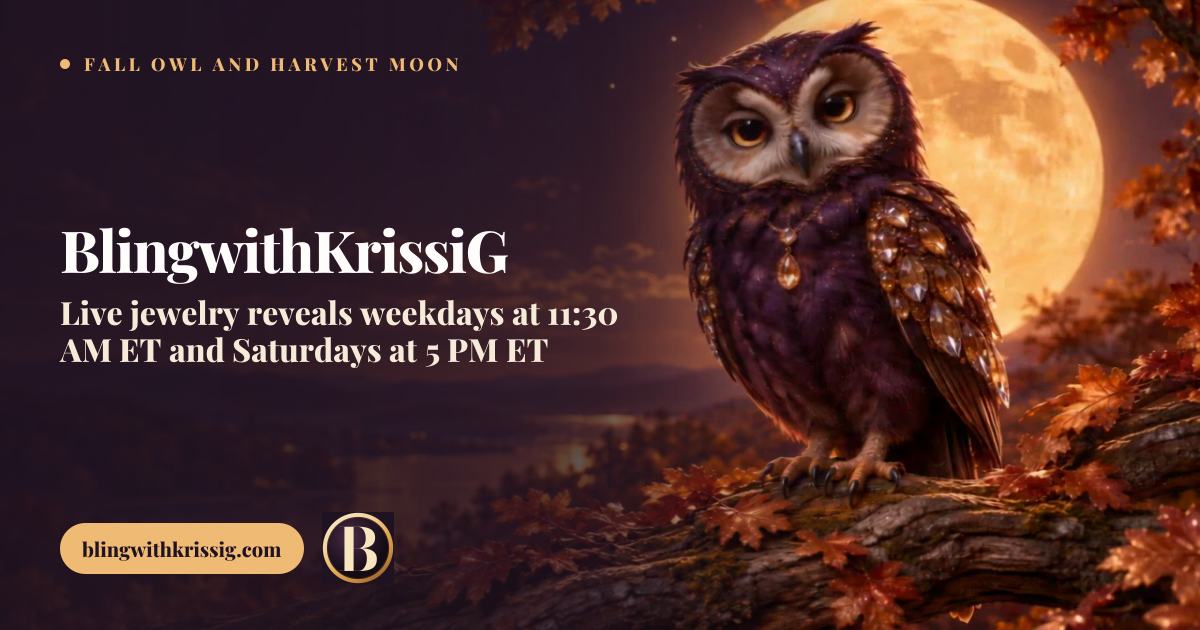
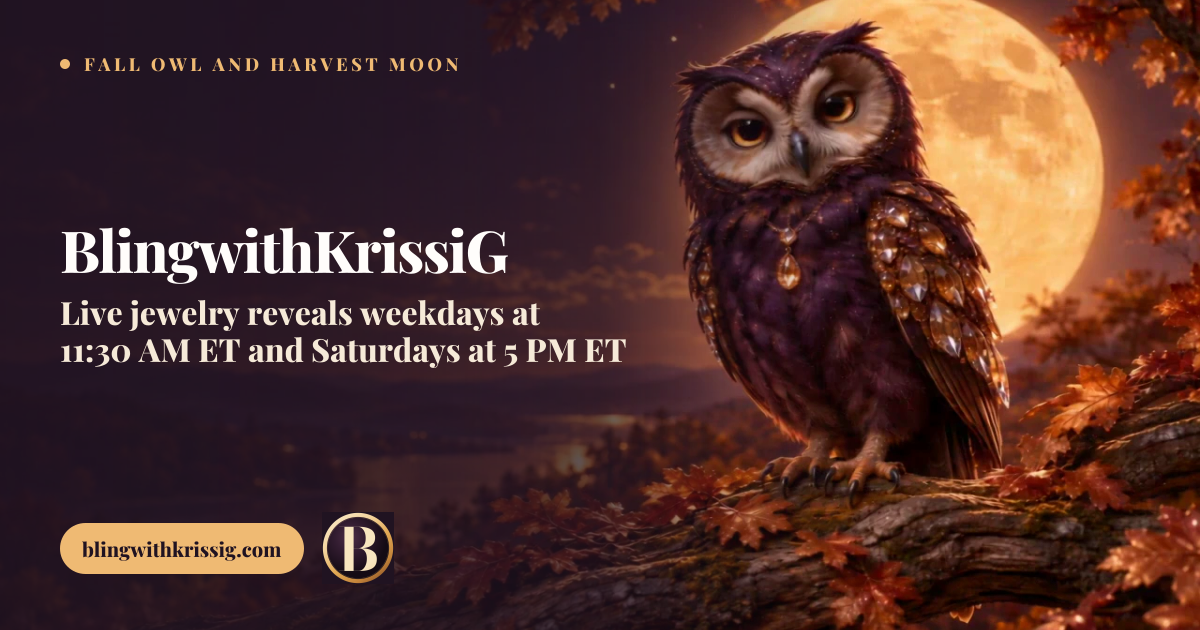
fix(customer-site): keep share-card clock times on one line
Non-breaking spaces hold the hour, AM/PM, and zone together in any tagline, so Kristin's schedule wraps before 11:30 AM ET instead of between the time and the meridian.

Changed region(s): [[0.0308, 0.4825, 0.5242, 0.6032]]

diff --git a/tests/customer-site-brand-assets.test.ts b/tests/customer-site-brand-assets.test.ts
@@ -3,6 +3,7 @@ import { resolve } from 'node:path'
 import { describe, expect, it } from 'vitest'
 
 import {
+  bindShareCardClockTimes,
   getCustomerSiteAppleMarkAssetPath,
   getCustomerSiteExplicitShareLines,
   getCustomerSiteMark,
@@ -79,12 +80,13 @@ describe('customer-site brand assets', () => {
     const generatedSubtitle =
       "I'm Kristin - join me for live reveals, favorite finds, and customer-first sparkle."
     const tagline = 'Live jewelry reveals weekdays at 11:30 AM ET and Saturdays at 5 PM ET'
+    const wrappedTagline = 'Live jewelry reveals weekdays at 11:30\u00a0AM\u00a0ET and Saturdays at 5\u00a0PM\u00a0ET'
 
     expect(getCustomerSiteExplicitShareLines({
       explicitHeroTitle: '',
       heroSubtitle: generatedSubtitle,
       tagline,
-    })).toEqual({ headline: tagline, support: '' })
+    })).toEqual({ headline: wrappedTagline, support: '' })
 
     expect(getCustomerSiteExplicitShareLines({
       explicitHeroTitle: 'Harvest light, real sparkle.',
@@ -92,7 +94,7 @@ describe('customer-site brand assets', () => {
       tagline,
     })).toEqual({
       headline: 'Harvest light, real sparkle.',
-      support: tagline,
+      support: wrappedTagline,
     })
 
     expect(getCustomerSiteExplicitShareLines({
@@ -109,6 +111,17 @@ describe('customer-site brand assets', () => {
       heroSubtitle: '',
       tagline: '',
     })).toEqual({ headline: 'Live jewelry reveals', support: '' })
+  })
+
+  it('keeps clock times together in any share tagline', () => {
+    expect(bindShareCardClockTimes(
+      'Live jewelry reveals weekdays at 11:30 AM ET and Saturdays at 5 PM ET',
+    )).toBe('Live jewelry reveals weekdays at 11:30\u00a0AM\u00a0ET and Saturdays at 5\u00a0PM\u00a0ET')
+    expect(bindShareCardClockTimes('Doors at 7 PM CT')).toBe('Doors at 7\u00a0PM\u00a0CT')
+    expect(bindShareCardClockTimes('Starts at 8:00 p.m.')).toBe('Starts at 8:00\u00a0p.m.')
+    expect(bindShareCardClockTimes('Follow along for new reveals.')).toBe(
+      'Follow along for new reveals.',
+    )
   })
 
   it('keeps the share card tied to the selected customer-site skin', () => {

diff --git a/lib/amethyst/customer-site-brand-assets.ts b/lib/amethyst/customer-site-brand-assets.ts
@@ -120,6 +120,18 @@ export function getCustomerSiteAppleMarkAssetPath(customDomain: string) {
   return KRISTIN_CUSTOM_DOMAINS.has(customDomain) ? KRISTIN_MARK_PATH : null
 }
 
+/**
+ * Keeps a clock time on one line. "11:30 AM ET" must not wrap between the
+ * number and AM/PM or the zone. Ordinary spaces outside the time still wrap.
+ */
+export function bindShareCardClockTimes(value: string) {
+  return value.replace(
+    /\b(\d{1,2}(?::\d{2})?)\s*(a\.?m\.?|p\.?m\.?)(?:\s*(et|ct|mt|pt|est|cst|mst|pst|edt|cdt|mdt|pdt))?\b/gi,
+    (_match, hour: string, meridiem: string, zone?: string) =>
+      zone ? `${hour}\u00a0${meridiem}\u00a0${zone}` : `${hour}\u00a0${meridiem}`,
+  )
+}
+
 export interface CustomerSiteExplicitShareLines {
   headline: string
   support: string
@@ -143,10 +155,16 @@ export function getCustomerSiteExplicitShareLines(input: {
       ? subtitle
       : ''
 
-  if (title && explicitSubtitle) return { headline: title, support: explicitSubtitle }
-  if (title) return { headline: title, support: tagline !== title ? tagline : '' }
-  if (explicitSubtitle) return { headline: explicitSubtitle, support: '' }
-  return { headline: tagline || 'Live jewelry reveals', support: '' }
+  const headline = bindShareCardClockTimes(title || explicitSubtitle || tagline || 'Live jewelry reveals')
+  const support = bindShareCardClockTimes(
+    title && explicitSubtitle
+      ? explicitSubtitle
+      : title && tagline !== title
+        ? tagline
+        : '',
+  )
+
+  return { headline, support }
 }
 
 export function getCustomerSiteMarkFontFamily(customDomain: string) {
